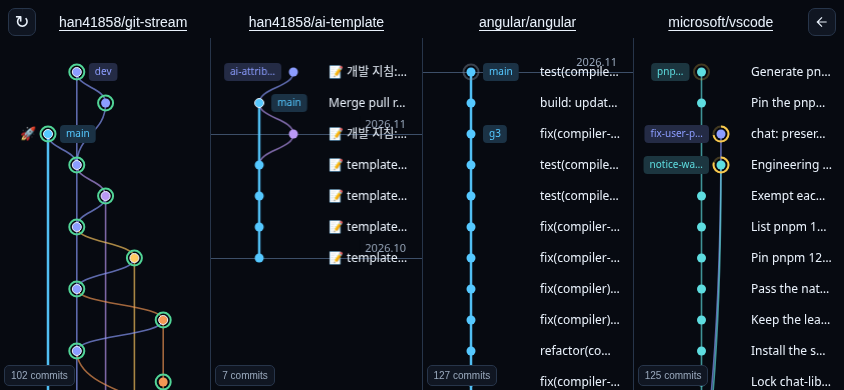
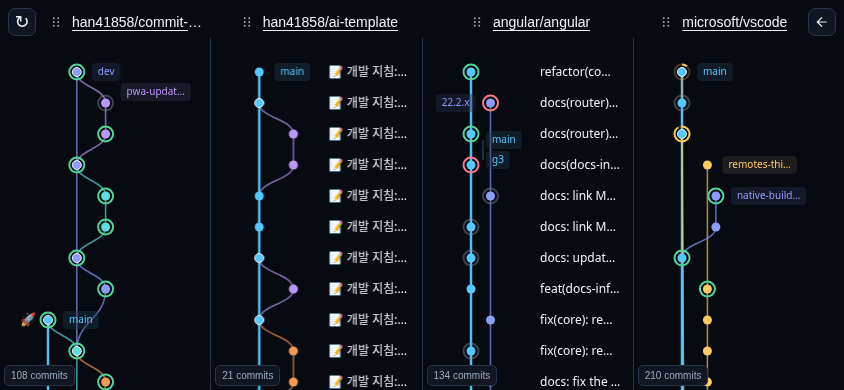
💄 브랜딩: Commit Trail로 제품명과 주소 변경

diff --git a/src/RecentRepositories.test.ts b/src/RecentRepositories.test.ts
@@ -1,5 +1,6 @@
 import { test } from 'node:test';
 import assert from 'node:assert/strict';
+import { TOKEN_STORAGE_KEY } from './tokenStorage';
 import {
   RecentRepositories,
   RECENT_REPOSITORIES_KEY,
@@ -104,9 +105,9 @@ test('timestamp validation rejects nonfinite and unsafe dates and keeps equal-da
   );
 });
 test('search is a local case-insensitive substring match and supports GitHub URL input', () => {
-  const entries = [row('angular/angular'), row('han41858/git-stream'), row('other/project')];
+  const entries = [row('angular/angular'), row('han41858/commit-trail'), row('other/project')];
   assert.deepEqual(matchingRecentRepositories(entries, ''), entries);
-  assert.deepEqual(matchingRecentRepositories(entries, 'GIT'), [entries[1]]);
+  assert.deepEqual(matchingRecentRepositories(entries, 'TRAIL'), [entries[1]]);
   assert.deepEqual(matchingRecentRepositories(entries, '41858'), [entries[1]]);
   assert.deepEqual(matchingRecentRepositories(entries, 'https://github.com/ANGULAR/angular.git/'), [
     entries[0],
@@ -114,16 +115,19 @@ test('search is a local case-insensitive substring match and supports GitHub URL
   assert.deepEqual(matchingRecentRepositories(entries, ':debug'), []);
 });
 test('the unchanged current address shows all recent visits in visit order, while other input is filtered', () => {
-  const entries = [row('angular/angular'), row('han41858/git-stream'), row('other/project')];
+  const entries = [row('angular/angular'), row('han41858/commit-trail'), row('other/project')];
   assert.deepEqual(
-    matchingRecentRepositories(entries, 'han41858/git-stream', 'han41858/git-stream'),
+    matchingRecentRepositories(entries, 'han41858/commit-trail', 'han41858/commit-trail'),
     entries,
   );
-  assert.deepEqual(matchingRecentRepositories(entries, 'angular', 'han41858/git-stream'), [
+  assert.deepEqual(matchingRecentRepositories(entries, 'angular', 'han41858/commit-trail'), [
     entries[0],
   ]);
-  assert.deepEqual(matchingRecentRepositories(entries, 'han41858/git-stream'), [entries[1]]);
-  assert.deepEqual(matchingRecentRepositories(entries, 'missing/repo', 'han41858/git-stream'), []);
+  assert.deepEqual(matchingRecentRepositories(entries, 'han41858/commit-trail'), [entries[1]]);
+  assert.deepEqual(
+    matchingRecentRepositories(entries, 'missing/repo', 'han41858/commit-trail'),
+    [],
+  );
 });
 test('first PAT registration, replacement and deletion clear only private visits', () => {
   for (const [previous, next] of [
@@ -198,12 +202,12 @@ test('touching the current repository preserves the latest known visibility with
 });
 test('individual and all-history deletion preserve unrelated browser data', () => {
   const { store, storage } = setup([row('a/one'), row('a/two', 'private', 90)]);
-  storage.data.set('gitstream.github-token', 'FAKE_TEST_TOKEN');
+  storage.data.set(TOKEN_STORAGE_KEY, 'FAKE_TEST_TOKEN');
   store.remove('A/One');
   assert.deepEqual(store.getSnapshot().entries, [row('a/two', 'private', 90)]);
   store.clear();
   assert.equal(storage.getItem(RECENT_REPOSITORIES_KEY), null);
-  assert.equal(storage.getItem('gitstream.github-token'), 'FAKE_TEST_TOKEN');
+  assert.equal(storage.getItem(TOKEN_STORAGE_KEY), 'FAKE_TEST_TOKEN');
   store.record('new/visit', false);
   assert.equal(store.getSnapshot().entries[0].repository, 'new/visit');
 });

diff --git a/index.html b/index.html
@@ -3,32 +3,32 @@
 <head>
   <meta charset="UTF-8"/>
   <meta name="viewport" content="width=device-width, initial-scale=1.0, viewport-fit=cover, interactive-widget=resizes-content"/>
-  <title>GitStream — Watch your Git history unfold.</title>
+  <title>Commit Trail — Watch your Git history unfold.</title>
   <meta name="description" content="Explore GitHub commits, branches and Actions in a live Git graph. Monitor up to four repositories side by side on desktop or mobile."/>
-  <link rel="canonical" href="https://git-stream-view.vercel.app/"/>
+  <link rel="canonical" href="https://commit-trail-view.vercel.app/"/>
 
   <meta property="og:type" content="website"/>
-  <meta property="og:site_name" content="GitStream"/>
-  <meta property="og:title" content="GitStream — Watch your Git history unfold."/>
+  <meta property="og:site_name" content="Commit Trail"/>
+  <meta property="og:title" content="Commit Trail — Watch your Git history unfold."/>
   <meta property="og:description" content="Explore GitHub commits, branches and Actions in a live Git graph. Monitor up to four repositories side by side on desktop or mobile."/>
-  <meta property="og:url" content="https://git-stream-view.vercel.app/"/>
-  <meta property="og:image" content="https://git-stream-view.vercel.app/icons/icon-512.png"/>
+  <meta property="og:url" content="https://commit-trail-view.vercel.app/"/>
+  <meta property="og:image" content="https://commit-trail-view.vercel.app/icons/icon-512.png"/>
   <meta property="og:image:type" content="image/png"/>
   <meta property="og:image:width" content="512"/>
   <meta property="og:image:height" content="512"/>
-  <meta property="og:image:alt" content="GitStream logo"/>
+  <meta property="og:image:alt" content="Commit Trail logo"/>
   <meta name="twitter:card" content="summary"/>
-  <meta name="twitter:title" content="GitStream — Watch your Git history unfold."/>
+  <meta name="twitter:title" content="Commit Trail — Watch your Git history unfold."/>
   <meta name="twitter:description" content="Explore GitHub commits, branches and Actions in a live Git graph. Monitor up to four repositories side by side on desktop or mobile."/>
-  <meta name="twitter:image" content="https://git-stream-view.vercel.app/icons/icon-512.png"/>
-  <meta name="twitter:image:alt" content="GitStream logo"/>
+  <meta name="twitter:image" content="https://commit-trail-view.vercel.app/icons/icon-512.png"/>
+  <meta name="twitter:image:alt" content="Commit Trail logo"/>
 
   <meta name="theme-color" content="#070a11"/>
   <link rel="icon" type="image/png" sizes="192x192" href="/icons/icon-192.png"/>
   <link rel="apple-touch-icon" sizes="180x180" href="/icons/apple-touch-icon.png"/>
   <meta name="mobile-web-app-capable" content="yes"/>
   <meta name="apple-mobile-web-app-capable" content="yes"/>
-  <meta name="apple-mobile-web-app-title" content="GitStream"/>
+  <meta name="apple-mobile-web-app-title" content="Commit Trail"/>
   <meta name="apple-mobile-web-app-status-bar-style" content="black-translucent"/>
 </head>
 <body>

diff --git a/src/analytics.test.ts b/src/analytics.test.ts
@@ -6,17 +6,19 @@ test('redacts private repository and branch parameters from page views', () => {
   const beforeSend = createAnalyticsBeforeSend();
   const result = beforeSend({
     type: 'pageview',
-    url: 'https://git-stream-view.vercel.app/?repo=owner/private-repo&branch=secret-feature#commit',
+    url: 'https://commit-trail-view.vercel.app/?repo=owner/private-repo&branch=secret-feature#commit',
   });
-  assert.equal(result?.url, 'https://git-stream-view.vercel.app/');
+  assert.equal(result?.url, 'https://commit-trail-view.vercel.app/');
   assert.equal(result?.type, 'pageview');
 });
 
 test('ignores additional page views caused by SPA history changes', () => {
   const beforeSend = createAnalyticsBeforeSend();
-  assert.ok(beforeSend({ type: 'pageview', url: 'https://git-stream-view.vercel.app/?repo=first/repo' }));
+  assert.ok(
+    beforeSend({ type: 'pageview', url: 'https://commit-trail-view.vercel.app/?repo=first/repo' }),
+  );
   assert.equal(
-    beforeSend({ type: 'pageview', url: 'https://git-stream-view.vercel.app/?repo=second/repo' }),
+    beforeSend({ type: 'pageview', url: 'https://commit-trail-view.vercel.app/?repo=second/repo' }),
     null,
   );
 });
@@ -25,8 +27,8 @@ test('invalid URL is never forwarded and does not consume the initial page view'
   const beforeSend = createAnalyticsBeforeSend();
   assert.equal(beforeSend({ type: 'pageview', url: '%broken' }), null);
   assert.equal(
-    beforeSend({ type: 'pageview', url: 'https://git-stream-view.vercel.app/?repo=a/b' })?.url,
-    'https://git-stream-view.vercel.app/',
+    beforeSend({ type: 'pageview', url: 'https://commit-trail-view.vercel.app/?repo=a/b' })?.url,
+    'https://commit-trail-view.vercel.app/',
   );
 });
 
@@ -34,8 +36,8 @@ test('custom events, if added later, also have their URL query removed', () => {
   const beforeSend = createAnalyticsBeforeSend();
   const event = beforeSend({
     type: 'event',
-    url: 'https://git-stream-view.vercel.app/?repo=private/repo',
+    url: 'https://commit-trail-view.vercel.app/?repo=private/repo',
   });
-  assert.equal(event?.url, 'https://git-stream-view.vercel.app/');
-  assert.ok(beforeSend({ type: 'pageview', url: 'https://git-stream-view.vercel.app/' }));
+  assert.equal(event?.url, 'https://commit-trail-view.vercel.app/');
+  assert.ok(beforeSend({ type: 'pageview', url: 'https://commit-trail-view.vercel.app/' }));
 });

diff --git a/src/main.tsx b/src/main.tsx
@@ -48,7 +48,7 @@ import { analyticsBeforeSend } from './analytics';
 import './style.css';
 import './monitor.css';
 
-const DEMO_REPO = 'han41858/git-stream';
+const DEMO_REPO = 'han41858/commit-trail';
 const BUILD_DATE = import.meta.env.DEV
   ? ''
   : (() => {
@@ -711,8 +711,8 @@ function App() {
           )}
       </main>
       <header className="topbar" ref={toolbarRef}>
-        <a className="brand" href="./" aria-label="GitStream home">
-          <img src={logo} alt="" width="36" height="36" /> GitStream
+        <a className="brand" href="./" aria-label="Commit Trail home">
+          <img src={logo} alt="" width="36" height="36" /> Commit Trail
         </a>
         <RepositoryInput
           value={input}
@@ -895,7 +895,7 @@ function App() {
               setErrorDismissed(true);
               setAuth(false);
             }}
-            href="https://github.com/settings/personal-access-tokens/new?name=GitStream&amp;contents=read&amp;pull_requests=read&amp;actions=read"
+            href="https://github.com/settings/personal-access-tokens/new?name=Commit%20Trail&amp;contents=read&amp;pull_requests=read&amp;actions=read"
             target="_blank"
             rel="noreferrer"
           >

diff --git a/src/MonitorRepositories.ts b/src/MonitorRepositories.ts
@@ -1,8 +1,8 @@
 import { lowercaseRepoInput, parseRepo } from './model';
 
 export const MONITOR_LIMIT = 32;
-export const MONITOR_REPOSITORIES_KEY = 'gitstream.monitor-repositories';
-export const MONITOR_PUBLIC_REPOSITORIES_KEY = 'gitstream.monitor-public-repositories';
+export const MONITOR_REPOSITORIES_KEY = 'commit-trail.monitor-repositories';
+export const MONITOR_PUBLIC_REPOSITORIES_KEY = 'commit-trail.monitor-public-repositories';
 type StorageAccess = Pick<Storage, 'getItem' | 'setItem' | 'removeItem'>;
 export function monitorRepository(value: string) {
   return parseRepo(lowercaseRepoInput(value));

diff --git a/vite.config.ts b/vite.config.ts
@@ -8,7 +8,7 @@ export default defineConfig({
   injectRegister:false,
   includeManifestIcons:false,
   manifest:{
-   id:'/',name:'GitStream',short_name:'GitStream',start_url:'/',scope:'/',display:'standalone',
+   id:'/',name:'Commit Trail',short_name:'Commit Trail',start_url:'/',scope:'/',display:'standalone',
    theme_color:'#070a11',background_color:'#070a11',
    icons:[
     {src:'/icons/icon-192.png',sizes:'192x192',type:'image/png',purpose:'any'},

diff --git a/src/BranchSelections.ts b/src/BranchSelections.ts
@@ -1,7 +1,7 @@
 import { monitorRepository } from './MonitorRepositories';
 import { branchName } from './branchName';
 
-export const BRANCH_SELECTIONS_KEY = 'gitstream.branch-selections';
+export const BRANCH_SELECTIONS_KEY = 'commit-trail.branch-selections';
 type Entry = { repository: string; branch: string; visibility: 'public' | 'private' };
 type StorageAccess = Pick<Storage, 'getItem' | 'setItem' | 'removeItem'>;
 type Options = {

diff --git a/src/debug.ts b/src/debug.ts
@@ -197,7 +197,7 @@ export class DebugMetrics {
   constructor(
     private readonly clock = () => performance.now(),
     private readonly log = (kind: string, value: unknown) =>
-      console.debug(`[GitStream debug] ${kind}`, value),
+      console.debug(`[Commit Trail debug] ${kind}`, value),
   ) {}
   enabled = () => this.mode !== 'off';
   getMode = () => this.mode;

diff --git a/src/RecentRepositories.ts b/src/RecentRepositories.ts
@@ -1,6 +1,6 @@
 import { lowercaseRepoInput, parseRepo } from './model';
 
-export const RECENT_REPOSITORIES_KEY = 'gitstream.recent-repositories';
+export const RECENT_REPOSITORIES_KEY = 'commit-trail.recent-repositories';
 export const RECENT_REPOSITORIES_LIMIT = 10;
 export type RecentRepository = Readonly<{
   repository: string;

diff --git a/src/DebugRoot.tsx b/src/DebugRoot.tsx
@@ -12,7 +12,7 @@ class DebugLoadBoundary extends Component<{ children: ReactNode }, { failed: boo
   }
   componentDidCatch(error: unknown) {
     console.debug(
-      '[GitStream debug] panel failed to load',
+      '[Commit Trail debug] panel failed to load',
       error instanceof Error ? error.name : 'error',
     );
   }

diff --git a/src/PwaUpdatePrompt.tsx b/src/PwaUpdatePrompt.tsx
@@ -18,7 +18,7 @@ export function PwaUpdatePrompt() {
         }
       }}
     >
-      <span>{state.error || 'A new version of GitStream is ready.'}</span>
+      <span>{state.error || 'A new version of Commit Trail is ready.'}</span>
       <button
         className="pwa-update-apply primary"
         type="button"

diff --git a/src/tokenStorage.ts b/src/tokenStorage.ts
@@ -1,4 +1,4 @@
-export const TOKEN_STORAGE_KEY = 'gitstream.github-token';
+export const TOKEN_STORAGE_KEY = 'commit-trail.github-token';
 export function readStoredToken() {
   try {
     return { token: localStorage.getItem(TOKEN_STORAGE_KEY) || '', error: '' };
